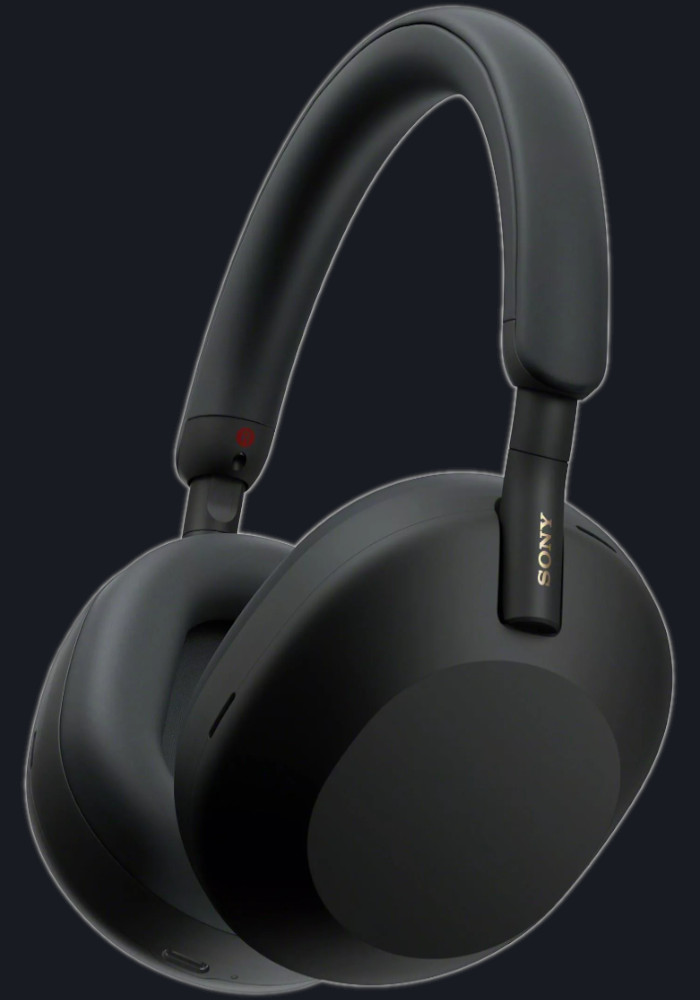
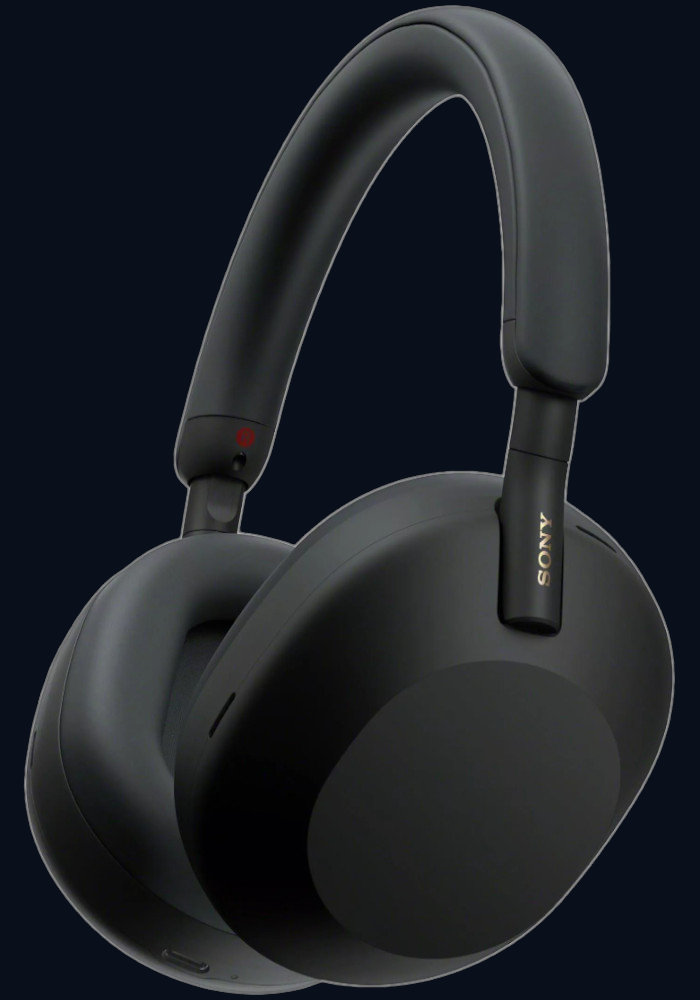
v4.0 - Kolorkiiiiiii... ekhem, oraz setup

diff --git a/pages/sprzet.html b/pages/sprzet.html
@@ -75,7 +75,7 @@ permalink: /pl/setup/
 
   <div class="flex flex-col md:flex-row w-auto mt-10">
     <div class="md:pr-8 md:pl-4 md:my-auto flex justify-center">
-      <img src="/assets/img/setup/v30.jpg" class="w-64 my-auto" />
+      <img src="/assets/img/setup/s20fe.jpg" class="w-96 my-auto" />
     </div>
 
     <div class="md:p-6 mt-3 md:mt-0 md:bg-gray-700 rounded-lg w-full flex">
@@ -83,42 +83,42 @@ permalink: /pl/setup/
         <div class="bold text-center text-2xl">Telefon</div>
 
         <ul class="mt-4">
-          <li><span class="bold text-blue-300">Model:</span> LG V30 H930</li>
+          <li><span class="bold text-blue-300">Model:</span> Samsung S20FE 5G</li>
           <li>
             <span class="bold text-blue-300">Wodo- i pyłoszczelność:</span>
-            IP68, MIL-STD-810G
+            IP68
           </li>
           <li>
-            <span class="bold text-blue-300">Wyświetlacz:</span> P-OLED 6,00"
-            1440x2880 (537ppi)
+            <span class="bold text-blue-300">Wyświetlacz:</span> Super AMOLED 6,50"
+            1080x2400 (405ppi)
           </li>
           <li>
             <span class="bold text-blue-300">Ochrona wyświetlacza:</span>
-            Corning Gorilla Glass 5
+            Corning Gorilla Glass
           </li>
           <li>
-            <span class="bold text-blue-300">Bateria:</span> Li-Po 3300 mAh;
-            Quick Charge 3.0
+            <span class="bold text-blue-300">Bateria:</span> Li-Po 4500 mAh;
+            Fast Charging 2.0
           </li>
           <li>
             <span class="bold text-blue-300"
               >Pamięć wbudowana (dla użytkownika):</span
             >
-            64GB (48GB)
+            128GB (104GB)
           </li>
-          <li><span class="bold text-blue-300">Pamięć RAM:</span> 4GB</li>
-          <li><span class="bold text-blue-300">Android:</span> 9; Stock ROM</li>
+          <li><span class="bold text-blue-300">Pamięć RAM:</span> 6GB</li>
+          <li><span class="bold text-blue-300">Android:</span> 13; Stock ROM</li>
           <li>
             <span class="bold text-blue-300">Procesor:</span> Qualcomm
-            Snapdragon 835 2.45GHz; 8 rdzeni
+            Snapdragon 865 2.45GHz; 8 rdzeni
           </li>
-          <li><span class="bold text-blue-300">GPU:</span> Adreno 540</li>
+          <li><span class="bold text-blue-300">GPU:</span> Adreno 650</li>
           <li>
-            <span class="bold text-blue-300">Aparat (tył):</span> 16Mpx,
-            Laserowy AF, f/1.6; 13Mpx, f/1.9
+            <span class="bold text-blue-300">Aparat (tył):</span> 12Mpx,
+            30x zoom, f/1.8; Szerokokątny 12Mpx, f/2.2; Tele 8Mpx, f/2.4, bezstratny 3x zoom
           </li>
           <li>
-            <span class="bold text-blue-300">Aparat (przód):</span> 5Mpx, f/2.2
+            <span class="bold text-blue-300">Aparat (przód):</span> 32Mpx, f/2.2
           </li>
         </ul>
       </div>
@@ -237,25 +237,20 @@ permalink: /pl/setup/
 
   <div class="flex flex-col md:flex-row mt-10 w-auto">
     <div class="md:pr-6 flex justify-center">
-      <img src="/assets/img/setup/buds+.jpg" class="h-auto w-96 my-auto" />
+      <img src="/assets/img/setup/watch5.jpg" class="h-auto w-96 my-auto" />
     </div>
 
     <div class="md:p-6 mt-3 md:mt-0 md:bg-gray-700 rounded-lg flex w-full">
       <div class="m-auto">
-        <div class="bold text-center text-2xl">Słuchawki</div>
+        <div class="bold text-center text-2xl">Zegarek</div>
 
         <ul class="mt-4">
-          <li><span class="bold text-blue-300">Model:</span> Samsung Buds+</li>
-          <li><span class="bold text-blue-300">Kodeki audio:</span> AAC</li>
-          <li><span class="bold text-blue-300">Bluetooth:</span> 5.0</li>
+          <li><span class="bold text-blue-300">Model:</span> Samsung Galaxy Watch 5</li>
+          <li><span class="bold text-blue-300">Certyfikaty:</span> IP68, MIL-STD-810H</li>
+          <li><span class="bold text-blue-300">Czujniki: </span> Pulsometr, SPO2, barometr, kompas, kroków, snu, stresu, BIA, EKG, ciśnieniomierz
+          <li><span class="bold text-blue-300">Bluetooth:</span> 5.2</li>
           <li>
-            <span class="bold text-blue-300">Gniazdo ładowania:</span> USB Type
-            C
-          </li>
-          <li><span class="bold text-blue-300">Typ:</span> dokanałowe</li>
-          <li>
-            <span class="bold text-blue-300">Dodatkowe funkcje:</span> ładowanie
-            indukcyjne; dedykowana aplikacja, IPX2
+            <span class="bold text-blue-300">Dodatkowe funkcje:</span> Szafirowe szkło, NFC, WiFi, GPS
           </li>
         </ul>
       </div>

diff --git a/assets/css/main.css b/assets/css/main.css
@@ -34,7 +34,7 @@
 /* .progress-container { */
 /*   width: 100%; */
 /* height: 8px; */
-/* background: #22262e; */
+/* background: #161e31; */
 /* } */
 
 /* The progress bar (scroll indicator) */
@@ -106,7 +106,7 @@ ol {
   height: 95vh;
   width: 16rem;
   margin-right: auto;
-  background-image: linear-gradient(#181b21, #22262e);
+  background-image: linear-gradient(#090f1b, #161e31);
   font-size: 1.35rem;
 }
 
@@ -118,7 +118,7 @@ ol {
     margin-top: 0px;
     height: 100vh !important;
     margin-right: auto;
-    background: #22262e;
+    background: #161e31;
     font-size: 1.25rem;
   }
 }
@@ -136,7 +136,7 @@ ol {
     margin-top: 0px;
     height: 88vh;
     margin-right: auto;
-    background: #22262e;
+    background: #161e31;
     font-size: 1.25rem;
   }
 }
@@ -167,7 +167,7 @@ ol {
 .glitch:after {
   position: absolute;
   overflow: hidden;
-  background-color: #181b21;
+  background-color: #090f1b;
 }
 
 .glitch:before {

diff --git a/tailwind.config.js b/tailwind.config.js
@@ -23,9 +23,9 @@ module.exports = {
         gray: {
           ...colors.gray,
           "400": "#cccccc",
-          "700": "#22262e",
-          "800": "#1e2129",
-          "900": "#181b21",
+          "700": "#161E31",
+          "800": "#101727",
+          "900": "#090F1B",
         },
       },
     },
